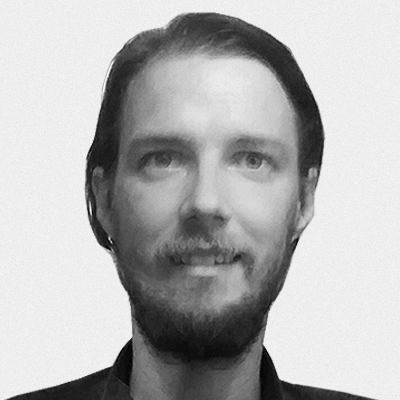
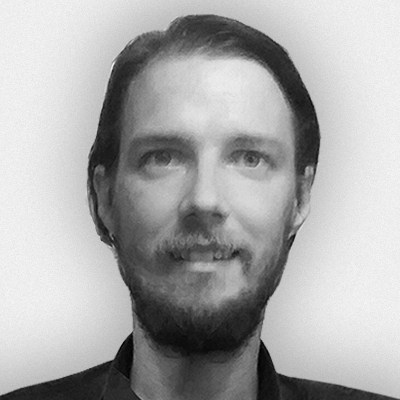
fix photo again

diff --git a/project/webapp/templates/static_templates/about.html b/project/webapp/templates/static_templates/about.html
@@ -106,7 +106,7 @@
                                 <p class="grey-text text-lighten-1">joohee@civiwiki.org</p>
                             </div>
                             <div class="col m4 s6">
-                                    <img class="profile-photo responsive-img" src="{% static "img/no_image_face.png" %}">
+                                    <img class="profile-photo responsive-img" src="{% static "img/team/brylie.png" %}">
                                 <h5 class="grey-text text-darken-3">Brylie Christopher Oxley</h5>
                                 <div class="team-title">Project Manager</div>
                                 <p class="grey-text text-lighten-1">No Public Email</p>
@@ -116,7 +116,7 @@
                     <div class="col s12">
                         <div class="row">
                             <div class="col m4 s6">
-                                <img class="profile-photo responsive-img" src="{% static "img/no_image_face.png" %}">
+                                <img class="profile-photo responsive-img" src="{% static "img/team/gordon.png" %}">
                                 <h5 class="grey-text text-darken-3">Gordon Stangler</h5>
                                 <div class="team-title">Developer</div>
                                 <p class="grey-text text-lighten-1">No Public Email</p>
